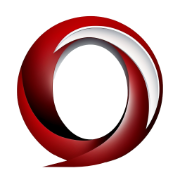
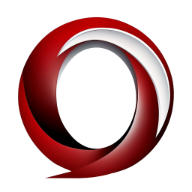
redeploy: hero + branding + assets

diff --git a/src/app/globals.css b/src/app/globals.css
@@ -11,11 +11,19 @@
   --card: 0 0% 100%;
   --card-foreground: 222.2 84% 4.9%;
   --border: 214.3 31.8% 91.4%;
-  --primary: 350 84% 47%; /* Ordera brand red */
+  --primary: 6 100% 59%; /* Ordera orange #FF3B30 */
   --primary-foreground: 0 0% 100%;
   --secondary: 224 71% 4%;
   --secondary-foreground: 0 0% 100%;
-  --ring: 350 84% 47%;
+  --ring: 6 100% 59%;
+  /* Design tokens */
+  --accent-hex: #FF3B30; /* Ordera Orange */
+  --accent-600-hex: #e3362c;
+  --accent-700-hex: #c83027;
+  --text-hex: #111111;
+  --muted-hex: #6b7280;
+  --glass-bg: rgba(255,255,255,0.72);
+  --glass-border: rgba(255,255,255,0.55);
 }
 
 @theme inline {
@@ -46,10 +54,11 @@ body { @apply bg-background text-foreground font-sans leading-relaxed; }
 /* Reusable utilities */
 .container-page { @apply mx-auto max-w-7xl px-4 sm:px-6 lg:px-8; }
 .card { @apply bg-card text-card-foreground rounded-2xl border shadow-sm; }
-.btn { @apply inline-flex items-center justify-center rounded-xl font-medium transition-all focus-visible:outline-none focus-visible:ring-2 focus-visible:ring-ring focus-visible:ring-offset-2 disabled:opacity-50 disabled:pointer-events-none tracking-tight text-sm; padding: 8px 18px; z-index: 0; }
-.btn-primary { @apply inline-flex items-center justify-center rounded-xl font-medium transition-all focus-visible:outline-none focus-visible:ring-2 focus-visible:ring-ring focus-visible:ring-offset-2 disabled:opacity-50 disabled:pointer-events-none bg-gradient-to-r from-rose-500 to-rose-600 text-white; box-shadow: 0 8px 20px rgba(233,72,99,0.25); }
-.btn-primary:hover { box-shadow: 0 12px 36px rgba(233,72,99,0.45); }
-.btn-outline { @apply inline-flex items-center justify-center rounded-xl font-medium transition-all focus-visible:outline-none focus-visible:ring-2 focus-visible:ring-ring focus-visible:ring-offset-2 disabled:opacity-50 disabled:pointer-events-none border border-border bg-white text-foreground hover:bg-muted; padding: 8px 18px; }
+.btn { @apply inline-flex items-center justify-center rounded-full font-medium transition-all focus-visible:outline-none focus-visible:ring-2 focus-visible:ring-ring focus-visible:ring-offset-2 disabled:opacity-50 disabled:pointer-events-none tracking-tight text-sm; padding: 10px 20px; z-index: 0; }
+.btn-primary { @apply inline-flex items-center justify-center rounded-full font-medium transition-all focus-visible:outline-none focus-visible:ring-2 focus-visible:ring-ring focus-visible:ring-offset-2 disabled:opacity-50 disabled:pointer-events-none text-white; background: var(--accent-hex); box-shadow: 0 8px 20px rgba(255,59,48,0.25); }
+.btn-primary:hover { box-shadow: 0 12px 36px rgba(255,59,48,0.45); transform: translateY(-1px); }
+.btn-outline { @apply inline-flex items-center justify-center rounded-full font-medium transition-all focus-visible:outline-none focus-visible:ring-2 focus-visible:ring-ring focus-visible:ring-offset-2 disabled:opacity-50 disabled:pointer-events-none border bg-white text-foreground; border-color: var(--accent-hex); padding: 10px 20px; }
+.btn-outline:hover { background: #ffefe9; }
 
 /* Soft glow helper for CTAs */
 .btn-glow { position: relative; }

diff --git a/src/components/Hero.tsx b/src/components/Hero.tsx
@@ -1,0 +1,52 @@
+import Image from 'next/image'
+
+export default function Hero() {
+  return (
+    <section id="hero" className="relative isolate overflow-hidden">
+      {/* Background image */}
+      <div className="absolute inset-0 -z-10">
+        <Image src="/home.png" alt="Rocket launch" fill priority className="object-cover" />
+        {/* Legibility overlay: left-to-right dark fade */}
+        <div className="absolute inset-0 bg-gradient-to-r from-black/45 via-black/20 to-transparent" />
+      </div>
+
+      <div className="mx-auto max-w-7xl px-6 pt-24 pb-16 md:pt-28 md:pb-24">
+        {/* Pill */}
+        <div className="inline-flex items-center gap-2 rounded-full border border-white/30 bg-white/20 px-4 py-2 backdrop-blur-md text-white/90">
+          <span className="h-2 w-2 rounded-full" style={{ background: 'var(--accent-hex)' }}></span>
+          <span>Your roadmap to AI adoption</span>
+        </div>
+
+        {/* Headline */}
+        <h1 className="mt-6 text-5xl font-extrabold leading-[1.05] text-white drop-shadow md:text-7xl max-w-3xl">
+          Big-firm consulting,
+          <br />
+          <span className="" style={{ color: 'var(--accent-hex)' }}>scaled to fit</span>
+          <br />
+          your business.
+        </h1>
+
+        {/* Subheadline */}
+        <p className="mt-6 max-w-3xl text-lg md:text-xl text-white/90">
+          Ordera brings enterprise-grade AI strategy and compliance expertise to SMBs—without the bloated costs.
+        </p>
+
+        {/* CTAs */}
+        <div className="mt-8 flex items-center gap-4">
+          <a href="/contact" className="btn btn-primary">Get Free Audit</a>
+          <a href="/services" className="btn btn-outline">Explore Services</a>
+        </div>
+      </div>
+
+      {/* Blog Card (glassmorphism) */}
+      <aside className="pointer-events-auto absolute right-6 top-40 w-[420px] max-w-[90vw] rounded-2xl border p-6 shadow-lg backdrop-blur-md md:right-12 md:top-48" style={{ background: 'var(--glass-bg)', borderColor: 'var(--glass-border)' }}>
+        <div className="flex h-9 w-9 items-center justify-center rounded-full text-white text-xl" style={{ background: 'var(--accent-hex)' }}>→</div>
+        <h3 className="mt-4 text-xl font-semibold" style={{ color: 'var(--text-hex)' }}>Ordera Blog</h3>
+        <p className="mt-2 text-[15px] leading-6" style={{ color: 'var(--muted-hex)' }}>
+          Insights on AI strategy, compliance, and scaling your business with cutting-edge automation.
+        </p>
+        <a href="/blog" className="mt-3 inline-flex items-center gap-1 font-medium" style={{ color: 'var(--accent-hex)' }}>Read insights <span aria-hidden>→</span></a>
+      </aside>
+    </section>
+  )
+}
